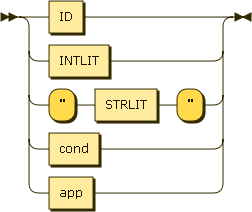
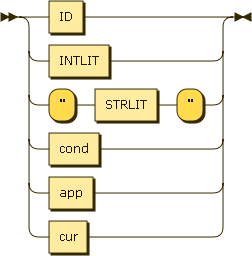
Curry expression added to syntax definition.

diff --git a/syntax.rst b/syntax.rst
@@ -44,11 +44,14 @@ Complete Cuneiform syntax in EBNF::
                    | '"' STRLIT '"'
                    | cond
                    | app
+                   | cur
                    
     cond         ::= 'if' compoundexpr 'then' compoundexpr 'else' compoundexpr 'end'
     
     app          ::= 'apply' '(' 'task' ':' ID+ ( ',' binding )* ')'
                    | ID '(' ( binding ( ',' binding )* )? ')'
+                   
+    cur          ::= 'curry' '(' 'task' ':' ID+ ( ',' binding )+ ')'
                    
     binding      ::= ID ':' compoundexpr
     
@@ -59,6 +62,7 @@ Complete Cuneiform syntax in EBNF::
    syntax_assign
    syntax_compoundexpr
    syntax_cond
+   syntax_cur
    syntax_param
    syntax_inparam
    syntax_lang

diff --git a/syntax_expr.rst b/syntax_expr.rst
@@ -4,8 +4,8 @@ Singular Expression (expr)
 ==========================
 
 A Singular Expression is either an ID, acting as a placeholder for expression,
-an INTLIT, a STRLIT enclosed in quotes, a :ref:`syntax_cond`, or an
-:ref:`syntax_app`.
+an INTLIT, a STRLIT enclosed in quotes, a :ref:`syntax_cond`, an
+:ref:`syntax_app`, or a :ref:`syntax_cur`.
 
 An Expression can be part of a :ref:`syntax_compoundexpr`.
 
@@ -20,11 +20,13 @@ An Expression can be part of a :ref:`syntax_compoundexpr`.
            | '"' STRLIT '"'
            | cond
            | app
+           | cur
     
 References:
 
 - :ref:`syntax_cond`
 - :ref:`syntax_app`
+- :ref:`syntax_cur`
 
 ID:
    An ID is a regular string beginning with a letter and containing letters,

diff --git a/syntax_cur.rst b/syntax_cur.rst
@@ -1,0 +1,29 @@
+.. _syntax_cur:
+
+Curry Expression (cur)
+======================
+
+A Curry Expression (cur) simplifies a Task Definition by binding one or more
+of its parameters. It starts with the keyword ``curry`` and binds the special parameter
+``task`` to one or more tasks identified by their IDs. Then follow parameter
+bindings.
+
+A :ref:`syntax_expr` can be a Curry Expression.
+
+**app:**
+
+.. image:: img/cur.png
+
+::
+
+    cur ::= 'curry' '(' 'task' ':' ID+ ( ',' binding )+ ')'
+    
+References:
+
+- :ref:`syntax_binding`
+
+ID:
+   An ID is a regular string beginning with a letter and containing letters,
+   numbers, or the symbols -, _, +, \*, or / and not being a keyword.
+
+
